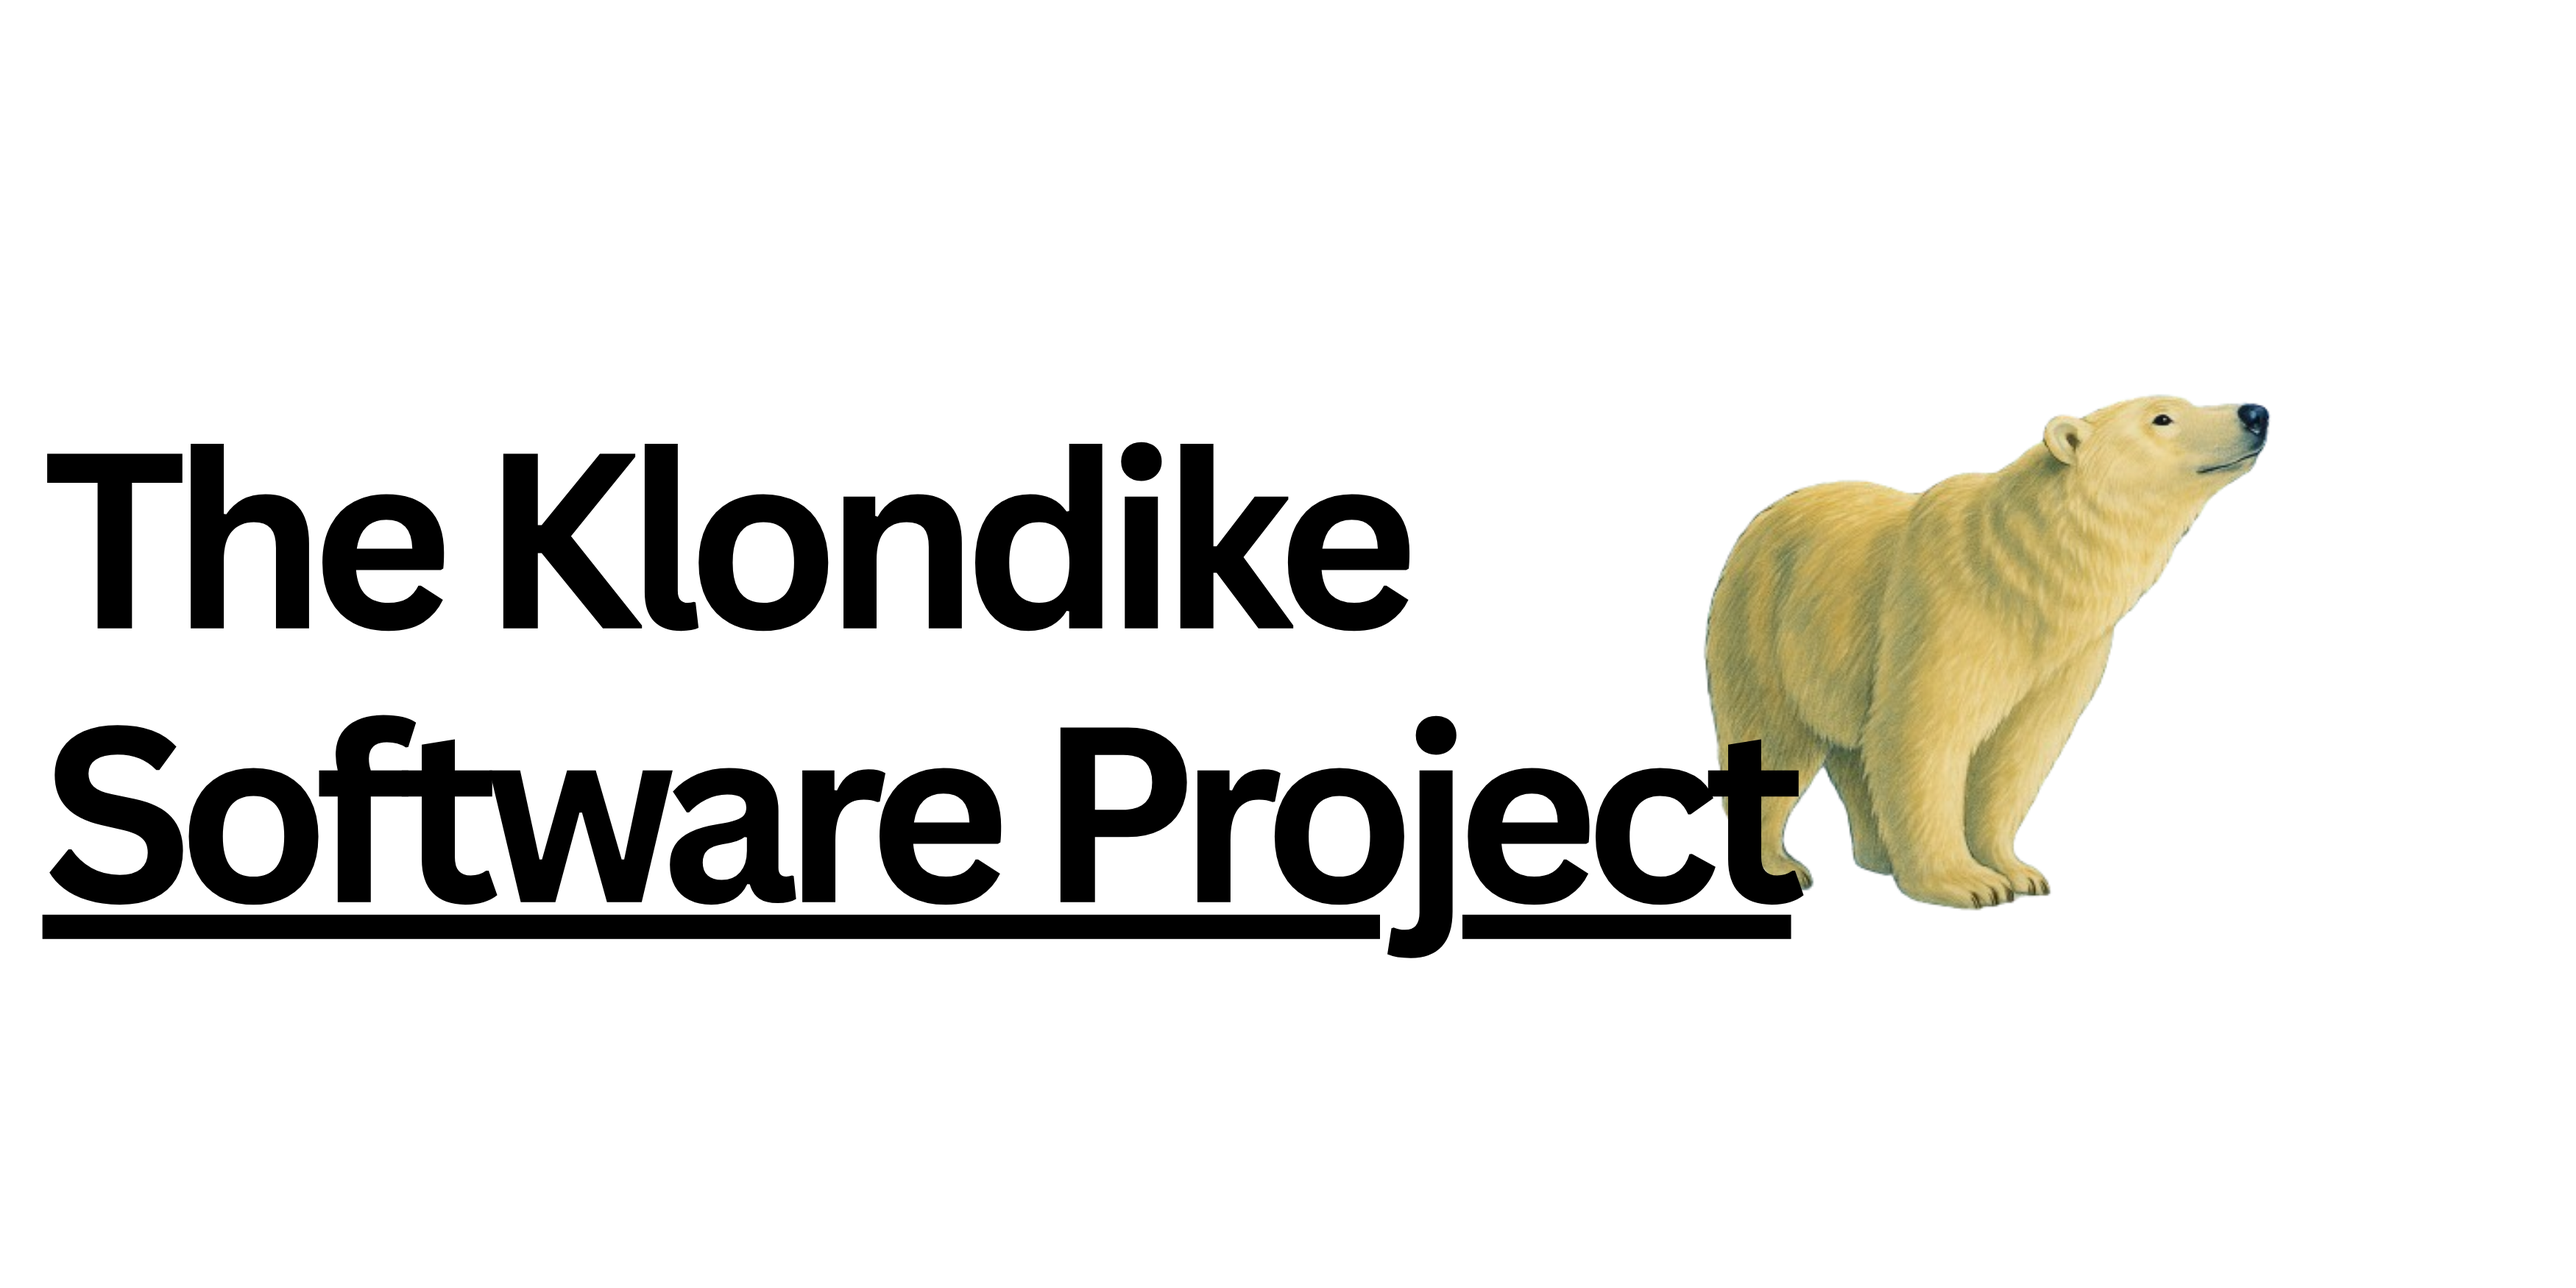
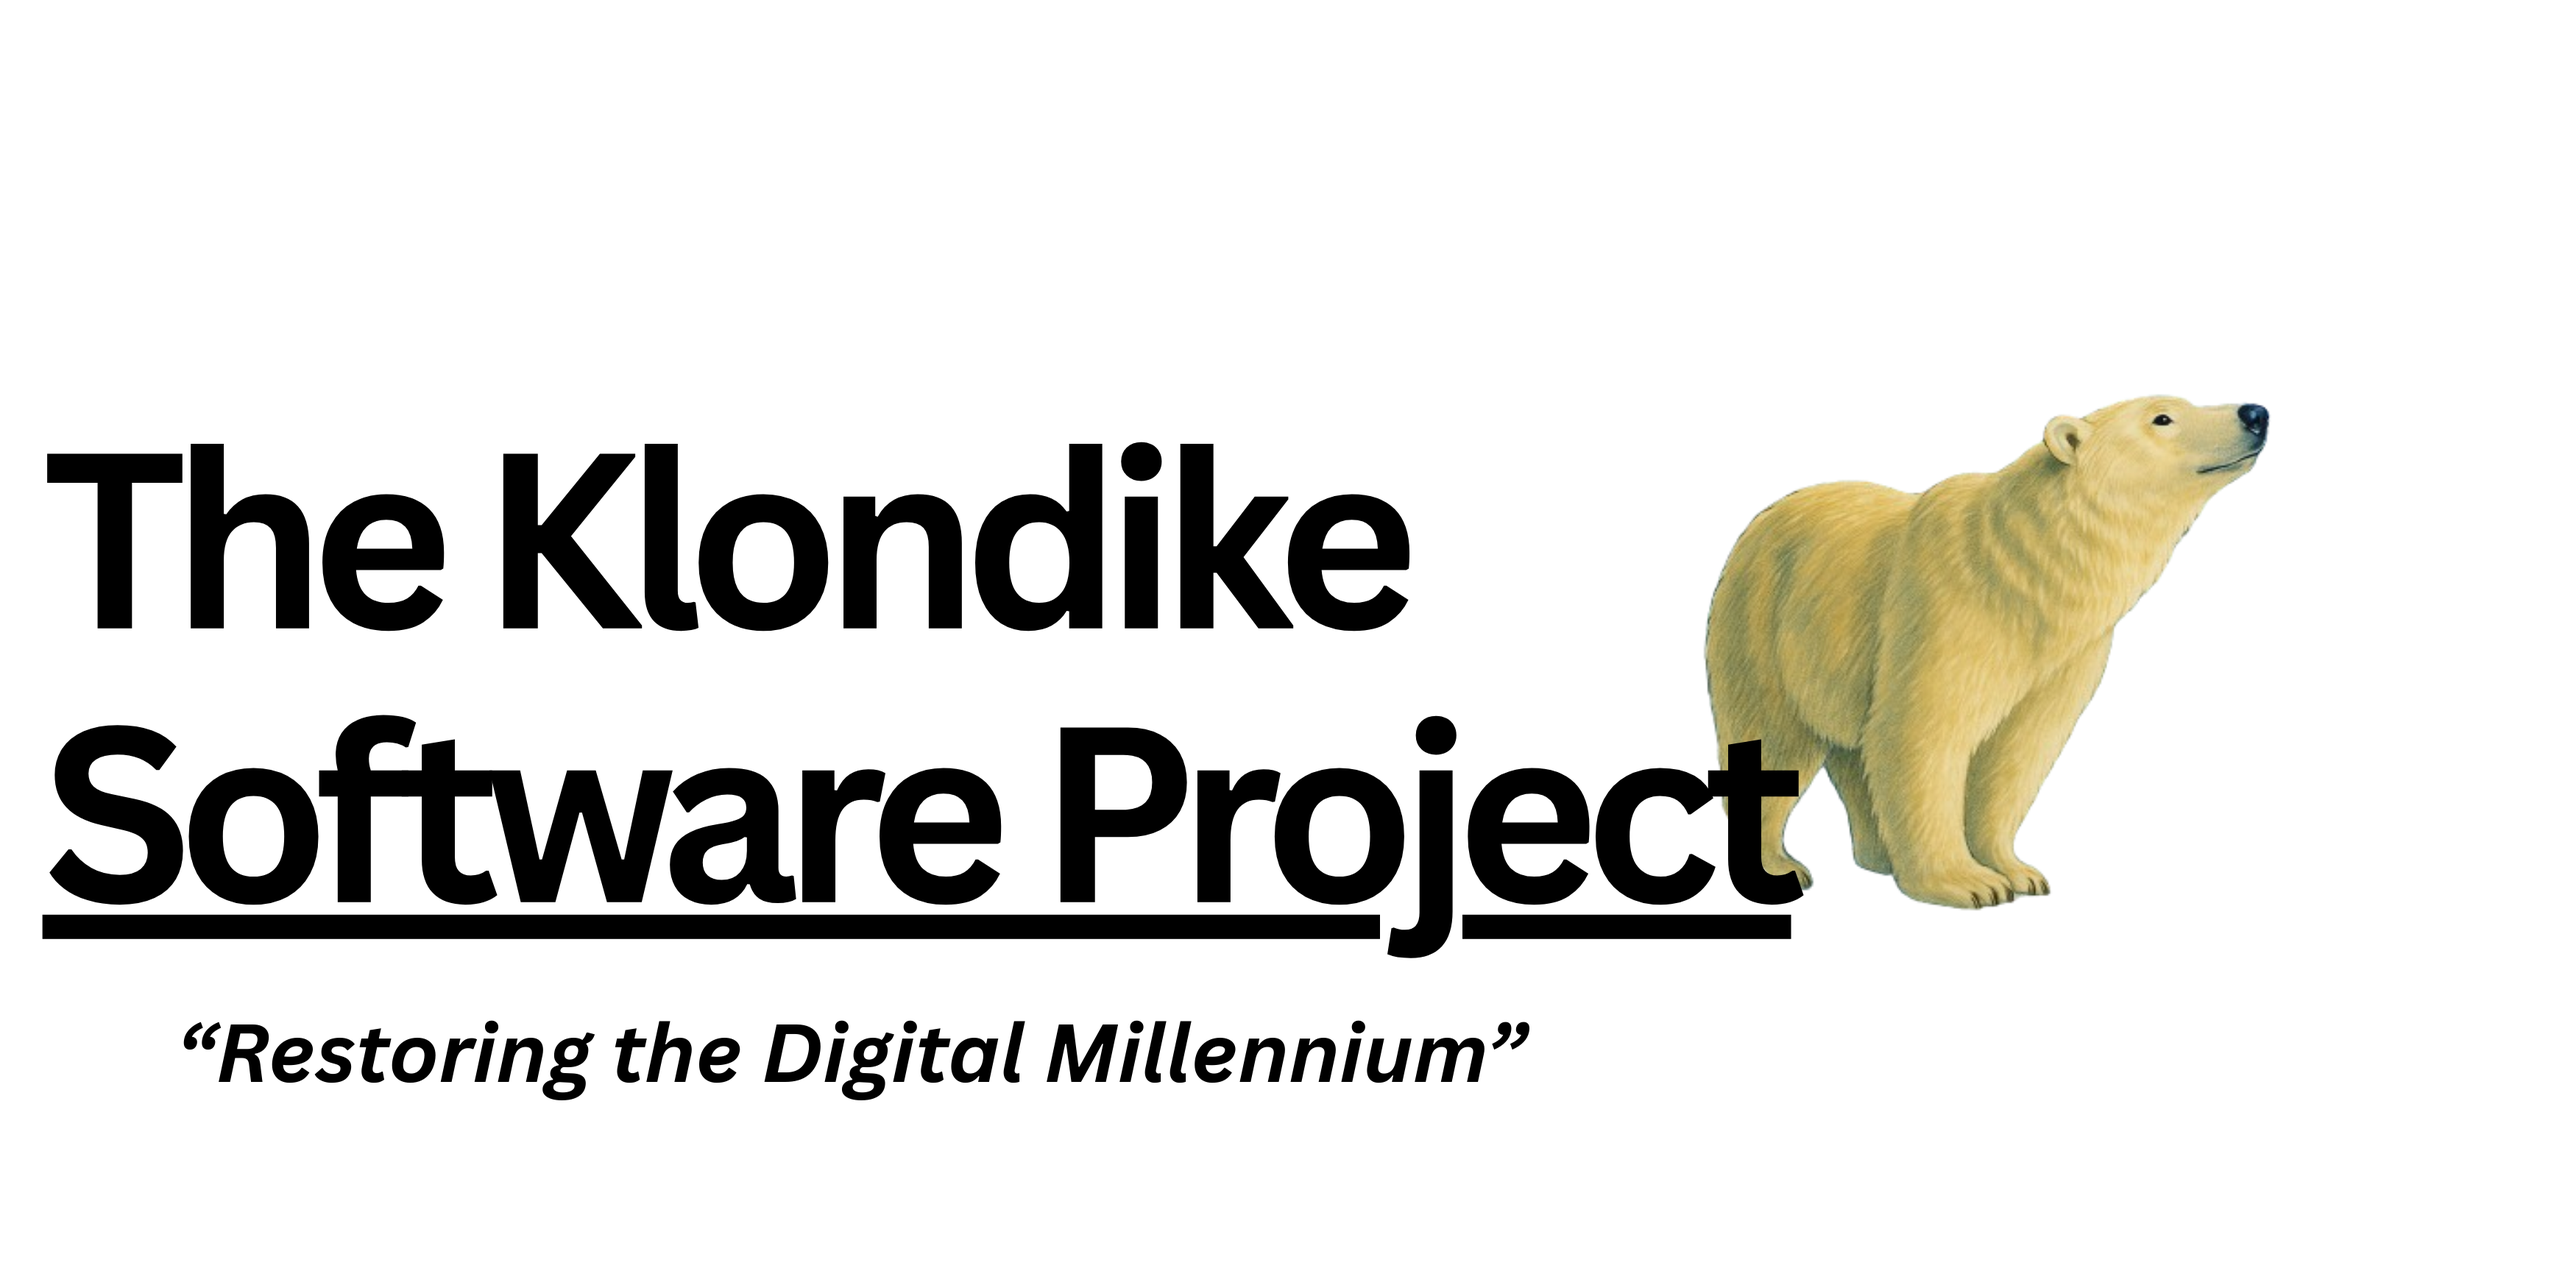
Still testing...

Changed region(s): [[0.0623, 0.7714, 0.5917, 0.864]]

diff --git a/index.html b/index.html
@@ -24,8 +24,7 @@ ul li a:hover {
   background-color: #111111;
 } </style>
 </head>
-<img src="images/banner.png" alt="banner" width="600" height="350">
-<h4><i>Restoring the Digital Millennium</i></h4>
+<img src="images/banner.png" alt="banner" width="700" height="350">
 <body></body>
 
 <ul>
